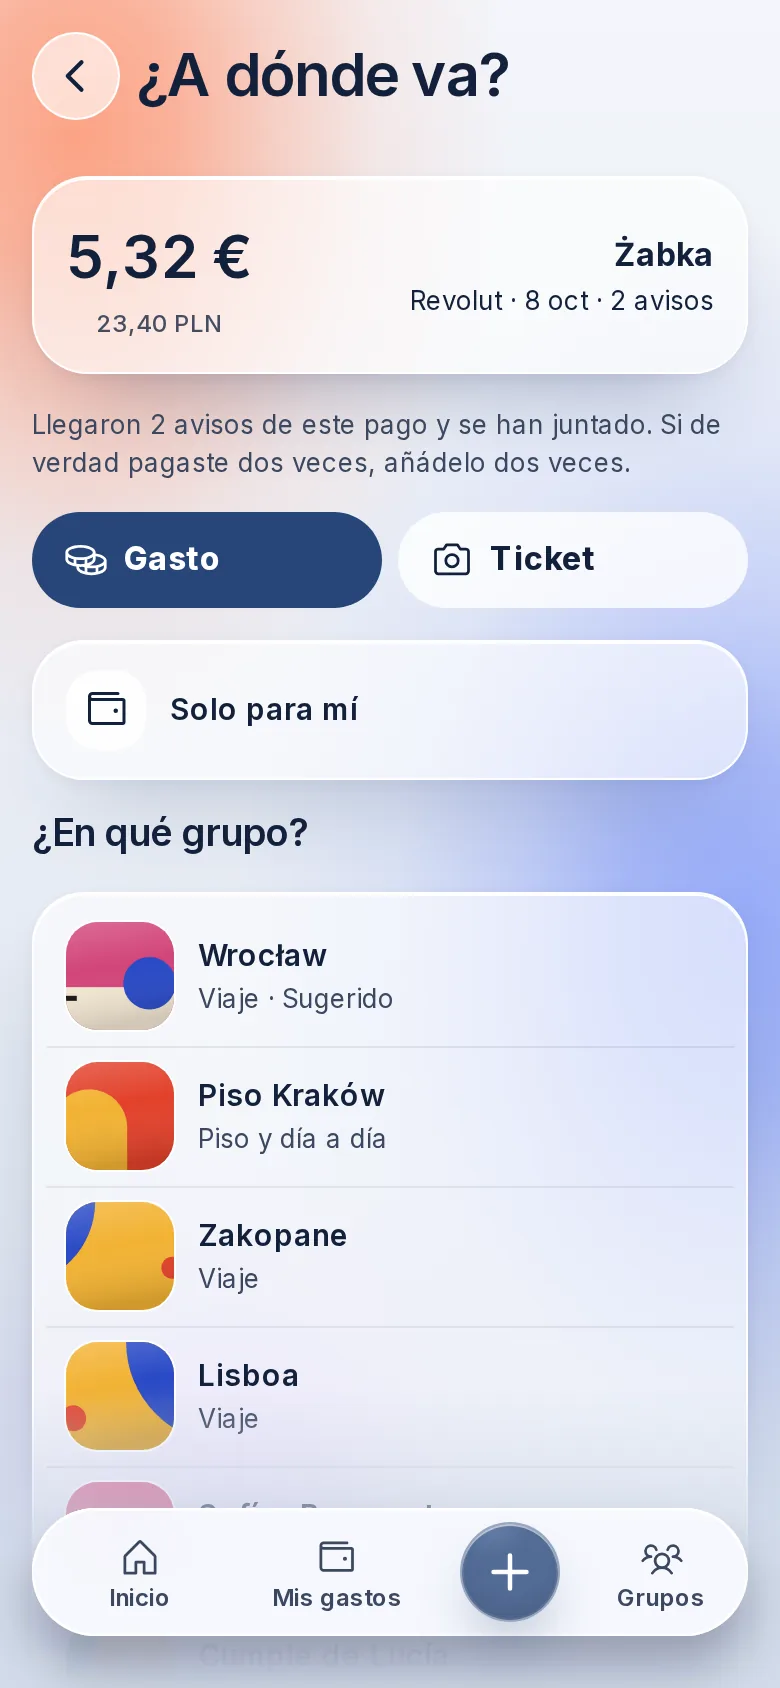
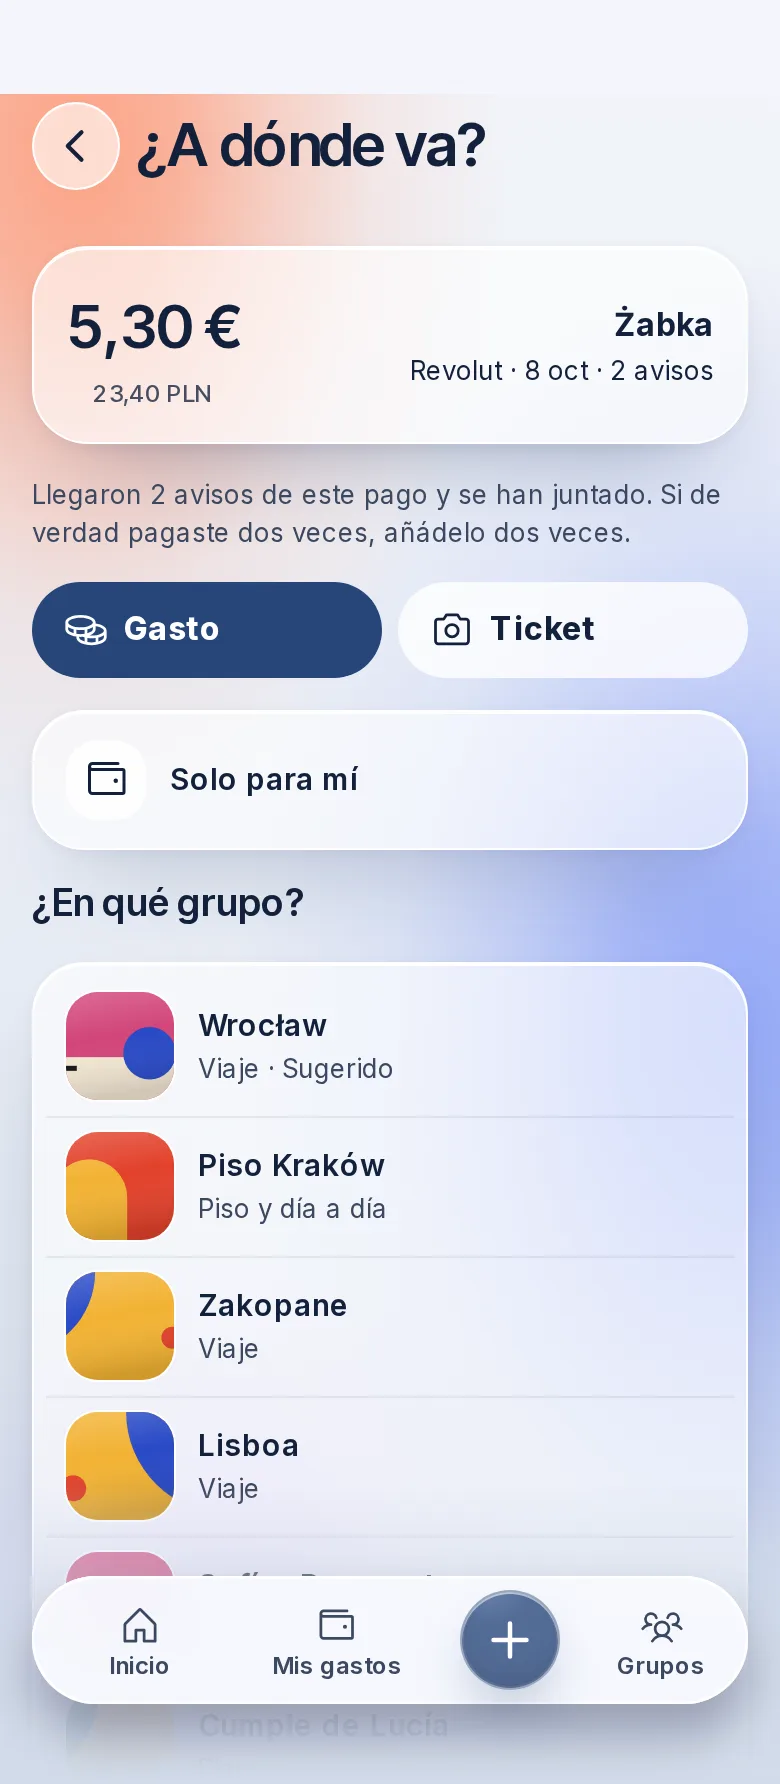
fix(wari): iPhone with a real status bar, captures taken with an iPhone's safe areas
The captures were a plain rectangle, so the frame hid the seam under the Dynamic Island with
a blurred copy of the top edge, and there was no status bar. Now the captures come from the
Wari app with the safe areas of an installed iPhone (47 pt above, 34 pt below, 390x892) and
the frame adds the island, the status bar (9:41, signal, Wi-Fi, battery) and the home
indicator. Same as the Wari landing (branch fix/iphone-safe-area in the Wari repo).

- PhoneFrame: capture fills the screen, no blurred strip; status bar and home indicator
- wari-shots: 780x1784 captures, regenerated

Claude-Session: https://claude.ai/code/session_01XqAvn3HB9bFb8pLV5vQFsb

diff --git a/src/components/portfolio/PhoneFrame.tsx b/src/components/portfolio/PhoneFrame.tsx
@@ -4,26 +4,47 @@ import type { Locale } from "@/lib/i18n-context";
 import type { WariShot } from "@/content/wari-shots";
 
 /**
- * A Wari capture inside an iPhone, as on the Wari landing (v2.1): a 310x686 body with
- * a titanium ring, side buttons and a Dynamic Island over a 292x668 screen. The capture
- * is 390x844 with nothing reserved for the status bar, so it sits 36 px lower (under the
- * island) and a blurred copy of its own top fills the strip above it. Every measure is a
- * percentage of the body, so it scales to any width (see `.wari-phone` in globals.css).
+ * A Wari capture inside an iPhone, as on the Wari landing (v2.1): a 310x686 body with a titanium ring, side buttons
+ * and a 292x668 screen with the Dynamic Island, the status bar (clock, signal, Wi-Fi, battery) and the home indicator
+ * on top. The captures are taken with the safe areas of an installed iPhone (47 pt above, 34 pt below, 390x892, the
+ * screen's own ratio), so the app already leaves room for all of it and the capture simply fills the screen.
+ * Every measure is a percentage of the body, so it scales to any width (see `.wari-phone` in globals.css).
  */
 
-/** The two layers that go inside a screen: the blurred strip and the capture itself. */
+/** The capture itself, filling the screen. */
 export function ShotLayers({ shot, locale, loading = "lazy" }: { shot: WariShot; locale: Locale; loading?: "lazy" | "eager" }) {
   return (
-    <>
-      <div aria-hidden="true" className="wari-strip">
-        {/* eslint-disable-next-line @next/next/no-img-element */}
-        <img src={shot.src} width={shot.width} height={shot.height} alt="" loading={loading} decoding="async" draggable={false} />
-      </div>
-      <div className="wari-shot">
-        {/* eslint-disable-next-line @next/next/no-img-element */}
-        <img src={shot.src} width={shot.width} height={shot.height} alt={shot.alt[locale]} loading={loading} decoding="async" draggable={false} />
-      </div>
-    </>
+    <div className="wari-shot">
+      {/* eslint-disable-next-line @next/next/no-img-element */}
+      <img src={shot.src} width={shot.width} height={shot.height} alt={shot.alt[locale]} loading={loading} decoding="async" draggable={false} />
+    </div>
+  );
+}
+
+/** Clock on the left ear of the island, signal, Wi-Fi and battery on the right one. Decorative. */
+function StatusBar() {
+  return (
+    <div aria-hidden="true" className="wari-status">
+      <span className="wari-clock">9:41</span>
+      <span className="wari-icons">
+        <svg viewBox="0 0 17 11" fill="currentColor" className="wari-ico-signal">
+          <rect x="0" y="7" width="3" height="4" rx="0.8" />
+          <rect x="4.6" y="4.7" width="3" height="6.3" rx="0.8" />
+          <rect x="9.2" y="2.4" width="3" height="8.6" rx="0.8" />
+          <rect x="13.8" y="0" width="3" height="11" rx="0.8" />
+        </svg>
+        <svg viewBox="0 0 16 11" fill="currentColor" className="wari-ico-wifi">
+          <path d="M8 2.3c2.1 0 4 .8 5.5 2.2l1-1.1A9.6 9.6 0 0 0 8 .8 9.6 9.6 0 0 0 1.5 3.4l1 1.1A7.9 7.9 0 0 1 8 2.3Z" />
+          <path d="M8 5.6c1.2 0 2.3.5 3.2 1.2l1-1.1A6.4 6.4 0 0 0 8 4.1a6.4 6.4 0 0 0-4.2 1.6l1 1.1c.9-.8 2-1.2 3.2-1.2Z" />
+          <path d="M8 8.8c.5 0 1 .2 1.4.6L8 11 6.6 9.4c.4-.4.9-.6 1.4-.6Z" />
+        </svg>
+        <svg viewBox="0 0 25 12" fill="none" className="wari-ico-battery">
+          <rect x="0.5" y="0.5" width="21" height="11" rx="3.4" stroke="currentColor" opacity="0.4" />
+          <rect x="2" y="2" width="18" height="8" rx="2.2" fill="currentColor" />
+          <path d="M23 4v4c.9-.3 1.5-1.1 1.5-2S23.9 4.3 23 4Z" fill="currentColor" opacity="0.45" />
+        </svg>
+      </span>
+    </div>
   );
 }
 
@@ -54,7 +75,9 @@ export function PhoneFrame({
       <span aria-hidden="true" className="wari-btn wari-btn-c" />
       <div className="wari-screen">
         {children ?? (shot ? <ShotLayers shot={shot} locale={locale} loading={loading} /> : null)}
+        <StatusBar />
         <span aria-hidden="true" className="wari-island" />
+        <span aria-hidden="true" className="wari-home" />
       </div>
     </div>
   );

diff --git a/src/content/wari-shots.ts b/src/content/wari-shots.ts
@@ -16,7 +16,7 @@ export const WARI_SHOTS: WariShot[] = [
   {
     src: "/media/wari/wari-saldos-light.webp",
     width: 780,
-    height: 1688,
+    height: 1784,
     alt: {
       en: "Wari balances screen: who pays whom in the group, with a Paid button for each debt",
       es: "Pantalla de saldos de Wari: quién paga a quién en el grupo, con un botón Pagado en cada deuda",
@@ -25,7 +25,7 @@ export const WARI_SHOTS: WariShot[] = [
   {
     src: "/media/wari/wari-ticket-light.webp",
     width: 780,
-    height: 1688,
+    height: 1784,
     alt: {
       en: "Wari screen splitting a supermarket receipt, product by product",
       es: "Pantalla de Wari repartiendo un ticket del súper producto a producto",
@@ -34,7 +34,7 @@ export const WARI_SHOTS: WariShot[] = [
   {
     src: "/media/wari/wari-viaje-light.webp",
     width: 780,
-    height: 1688,
+    height: 1784,
     alt: {
       en: "Wari trip screen with the day's itinerary, a map and the next step on top",
       es: "Pantalla de viaje de Wari con el itinerario del día, un mapa y el siguiente paso arriba",
@@ -47,7 +47,7 @@ export const WARI_STORY_SHOTS: Record<string, WariShot> = {
   inicio: {
     src: "/media/wari/wari-inicio-light.webp",
     width: 780,
-    height: 1688,
+    height: 1784,
     alt: {
       en: "Wari home: the total balance, what you are owed and what you owe, and the people in your groups",
       es: "Inicio de Wari: el saldo total, lo que te deben y lo que debes, y las personas de tus grupos",
@@ -56,7 +56,7 @@ export const WARI_STORY_SHOTS: Record<string, WariShot> = {
   ticket: {
     src: "/media/wari/wari-ticket-light.webp",
     width: 780,
-    height: 1688,
+    height: 1784,
     alt: {
       en: "Wari splitting a supermarket receipt, product by product",
       es: "Wari repartiendo un ticket del súper producto a producto",
@@ -65,7 +65,7 @@ export const WARI_STORY_SHOTS: Record<string, WariShot> = {
   captura: {
     src: "/media/wari/wari-captura-pago-light.webp",
     width: 780,
-    height: 1688,
+    height: 1784,
     alt: {
       en: "A card payment captured by Wari: 5.32 euros at a shop, two alerts merged into one, and the trip group suggested",
       es: "Un pago con tarjeta capturado por Wari: 5,32 euros en una tienda, dos avisos juntados en uno y el grupo del viaje sugerido",
@@ -74,7 +74,7 @@ export const WARI_STORY_SHOTS: Record<string, WariShot> = {
   pagar: {
     src: "/media/wari/wari-pagar-light.webp",
     width: 780,
-    height: 1688,
+    height: 1784,
     alt: {
       en: "Wari pay sheet: you owe 14.04 euros, with buttons to pay with Revolut or Bizum and to mark it as paid",
       es: "Hoja de pago de Wari: debes 14,04 euros, con botones para pagar con Revolut o Bizum y para marcarlo como pagado",
@@ -83,7 +83,7 @@ export const WARI_STORY_SHOTS: Record<string, WariShot> = {
   viaje: {
     src: "/media/wari/wari-itinerario-light.webp",
     width: 780,
-    height: 1688,
+    height: 1784,
     alt: {
       en: "Wari trip itinerary for the day, with stops, times and a flight ticket",
       es: "Itinerario del viaje en Wari para el día, con paradas, horas y un billete de avión",

diff --git a/src/app/globals.css b/src/app/globals.css
@@ -456,10 +456,10 @@ html {
     0 40px 80px -40px rgb(19 33 59 / 0.38);
 }
 
-/* An iPhone, as on the Wari landing (v2.1): body 310x686 with a titanium ring, side buttons
-   and a Dynamic Island over a 292x668 screen. Every measure is a percentage of the body, so
-   it scales to any width. The capture (390x844, nothing reserved for the status bar) sits
-   36px lower, under the island, and a blurred copy of its top fills the strip above it. */
+/* An iPhone, as on the Wari landing (v2.1): body 310x686 with a titanium ring, side buttons and a
+   292x668 screen with the Dynamic Island, the status bar and the home indicator on top. Every measure
+   is a percentage of the body, so it scales to any width. The capture (390x892, the screen's own
+   ratio) has the safe areas of an installed iPhone built in, so it simply fills the screen. */
 .wari-phone {
   position: relative;
   aspect-ratio: 310 / 686;
@@ -513,35 +513,68 @@ html {
   z-index: 5;
   pointer-events: none;
 }
-.wari-strip {
-  position: absolute;
-  left: -6.8%;
-  top: -4.5%;
-  width: 113.7%;
-  height: 18%;
-  overflow: hidden;
-  pointer-events: none;
-}
-.wari-strip img {
-  display: block;
-  width: 100%;
-  height: 100%;
-  object-fit: cover;
-  object-position: top;
-  filter: blur(10px);
-  filter: blur(4.8cqw);
-}
 .wari-shot {
   position: absolute;
-  left: 0;
-  top: 5.39%;
-  width: 100%;
-  height: 94.61%;
+  inset: 0;
 }
 .wari-shot img {
   display: block;
   width: 100%;
   height: 100%;
+}
+/* Status bar: level with the island, the clock on its left ear and the icons on its right one.
+   Sizes in cqw (the screen is the container), so 1cqw = 1% of the 292px screen. */
+.wari-status {
+  position: absolute;
+  top: 1.65%;
+  left: 0;
+  right: 0;
+  height: 4.19%;
+  display: flex;
+  justify-content: space-between;
+  align-items: center;
+  color: #0b1020;
+  z-index: 4;
+  pointer-events: none;
+}
+.wari-clock {
+  width: 33.6%;
+  padding-left: 0.7%;
+  text-align: center;
+  font-family: -apple-system, "SF Pro Text", Inter, system-ui, sans-serif;
+  font-size: 4.3cqw;
+  font-weight: 600;
+  line-height: 1;
+  letter-spacing: -0.01em;
+}
+.wari-icons {
+  width: 33.6%;
+  display: flex;
+  justify-content: center;
+  align-items: center;
+  gap: 1.2cqw;
+  padding-right: 0.7%;
+}
+.wari-ico-signal {
+  width: 5.1cqw;
+}
+.wari-ico-wifi {
+  width: 4.6cqw;
+}
+.wari-ico-battery {
+  width: 7.5cqw;
+}
+.wari-home {
+  position: absolute;
+  bottom: 0.75%;
+  left: 32.9%;
+  width: 34.2%;
+  height: 0.54%;
+  border-radius: 999px;
+  background: #0b1020;
+  opacity: 0.88;
+  z-index: 4;
+  pointer-events: none;
 }
 
 /* ---------------------------------------------------------------------
